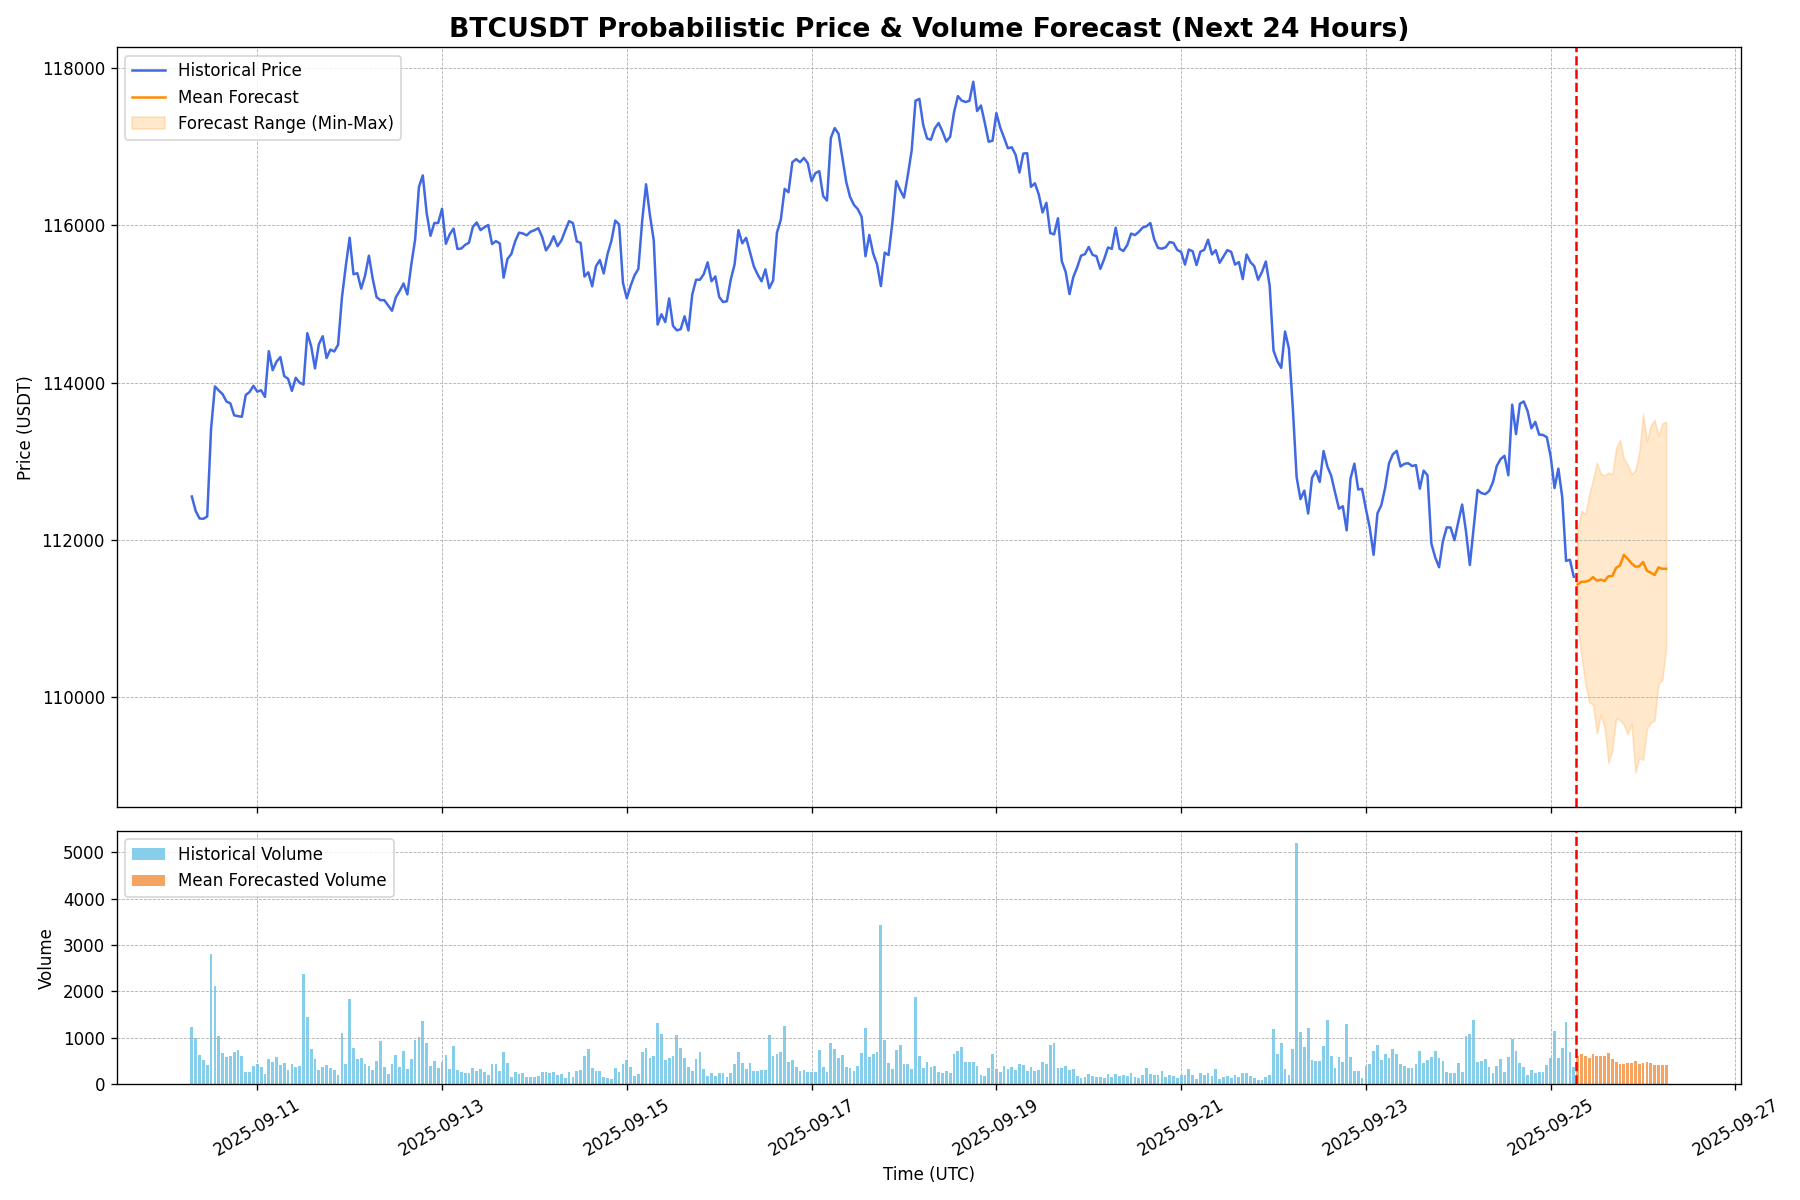
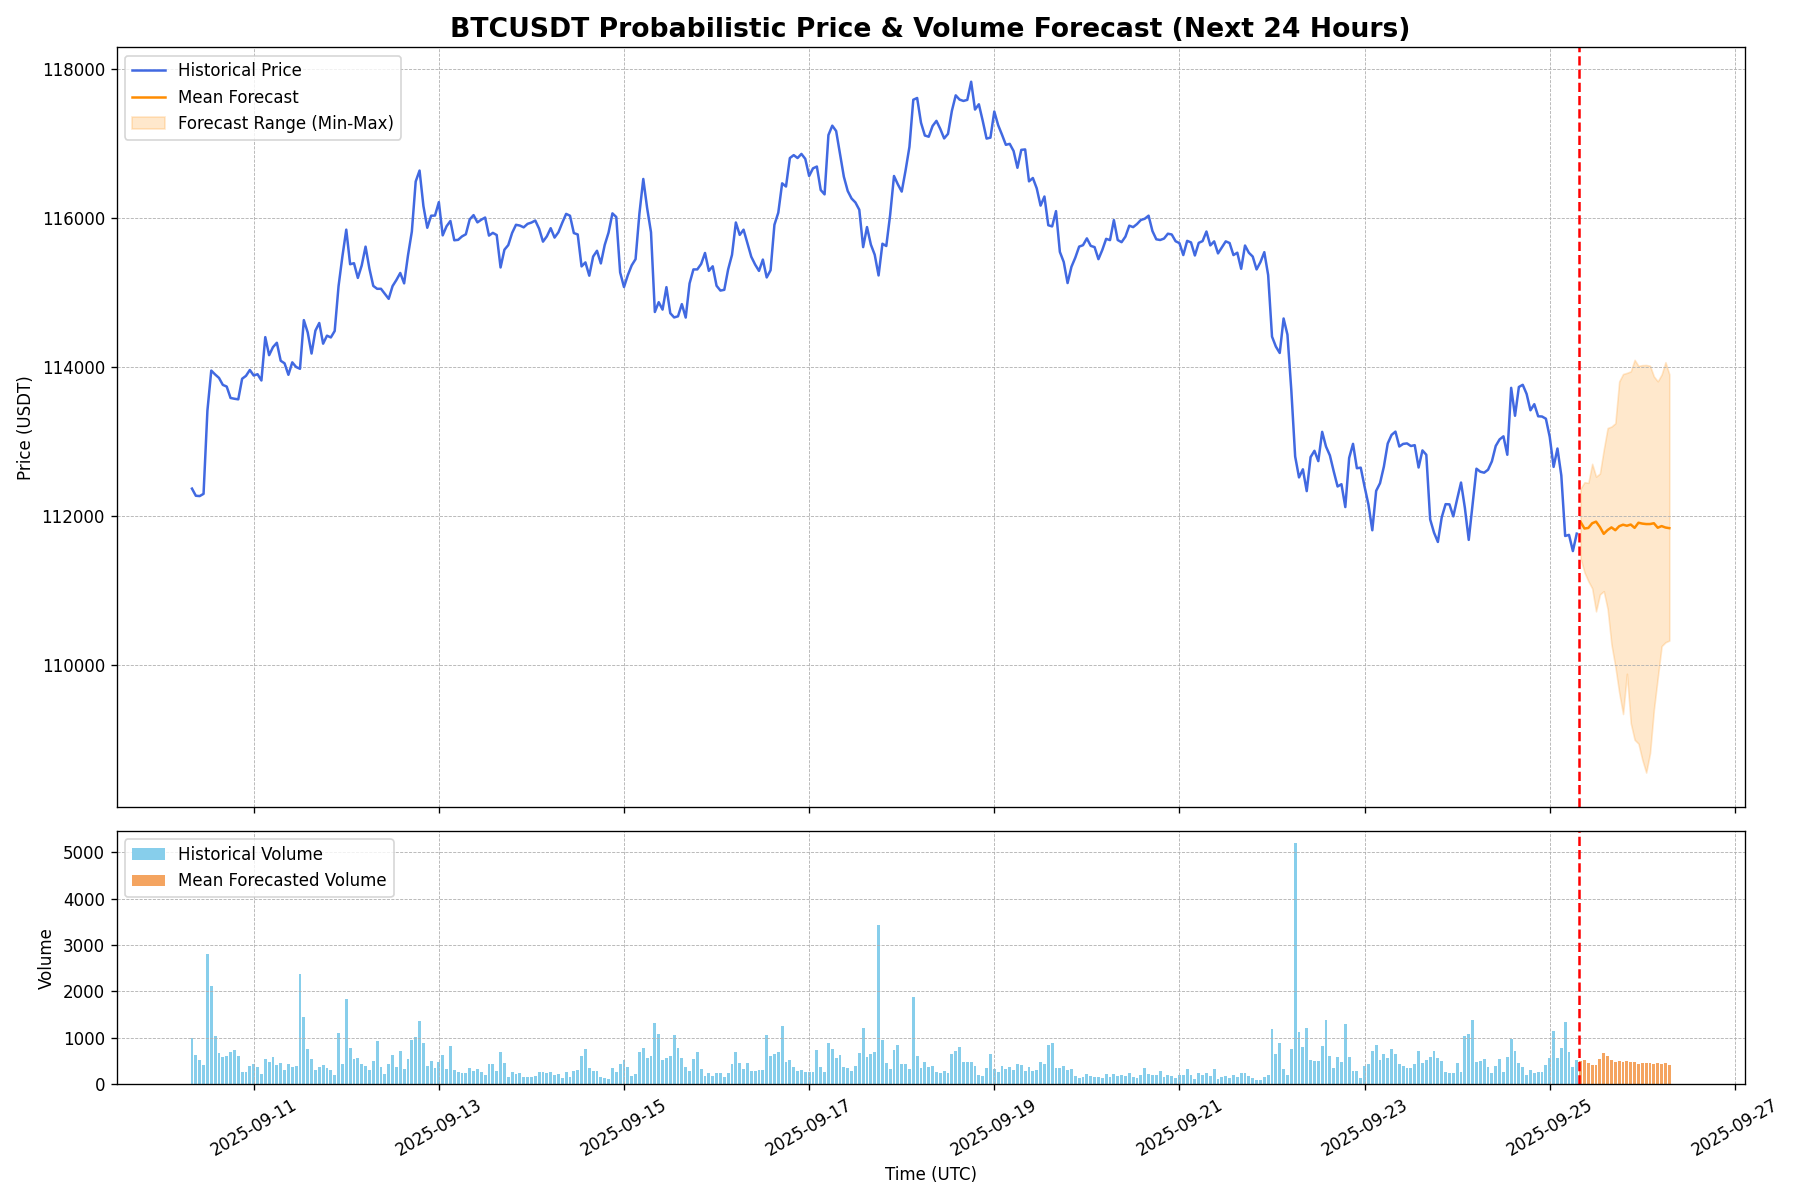
Auto commit

diff --git a/index.html b/index.html
@@ -286,7 +286,7 @@
         <section id="live-dashboard">
             <h2>BTC/USDT实时AI预测</h2>
             <div class="metadata">
-                <span>更新时间: <strong id="update-time">2025-09-25 07:00:21</strong>（北京时间+8小时）</span>
+                <span>更新时间: <strong id="update-time">2025-09-25 08:00:20</strong>（北京时间+8小时）</span>
                 <span>数据来源: 币安 | 1小时数据</span>
             </div>
 
@@ -297,7 +297,7 @@
                 </div>
                 <div class="metric-card">
                     <h3>未来12小时波动率</h3>
-                    <p class="metric-value" id="vol-amp-prob">10.0%</p>
+                    <p class="metric-value" id="vol-amp-prob">6.7%</p>
                 </div>
             </div>
 
